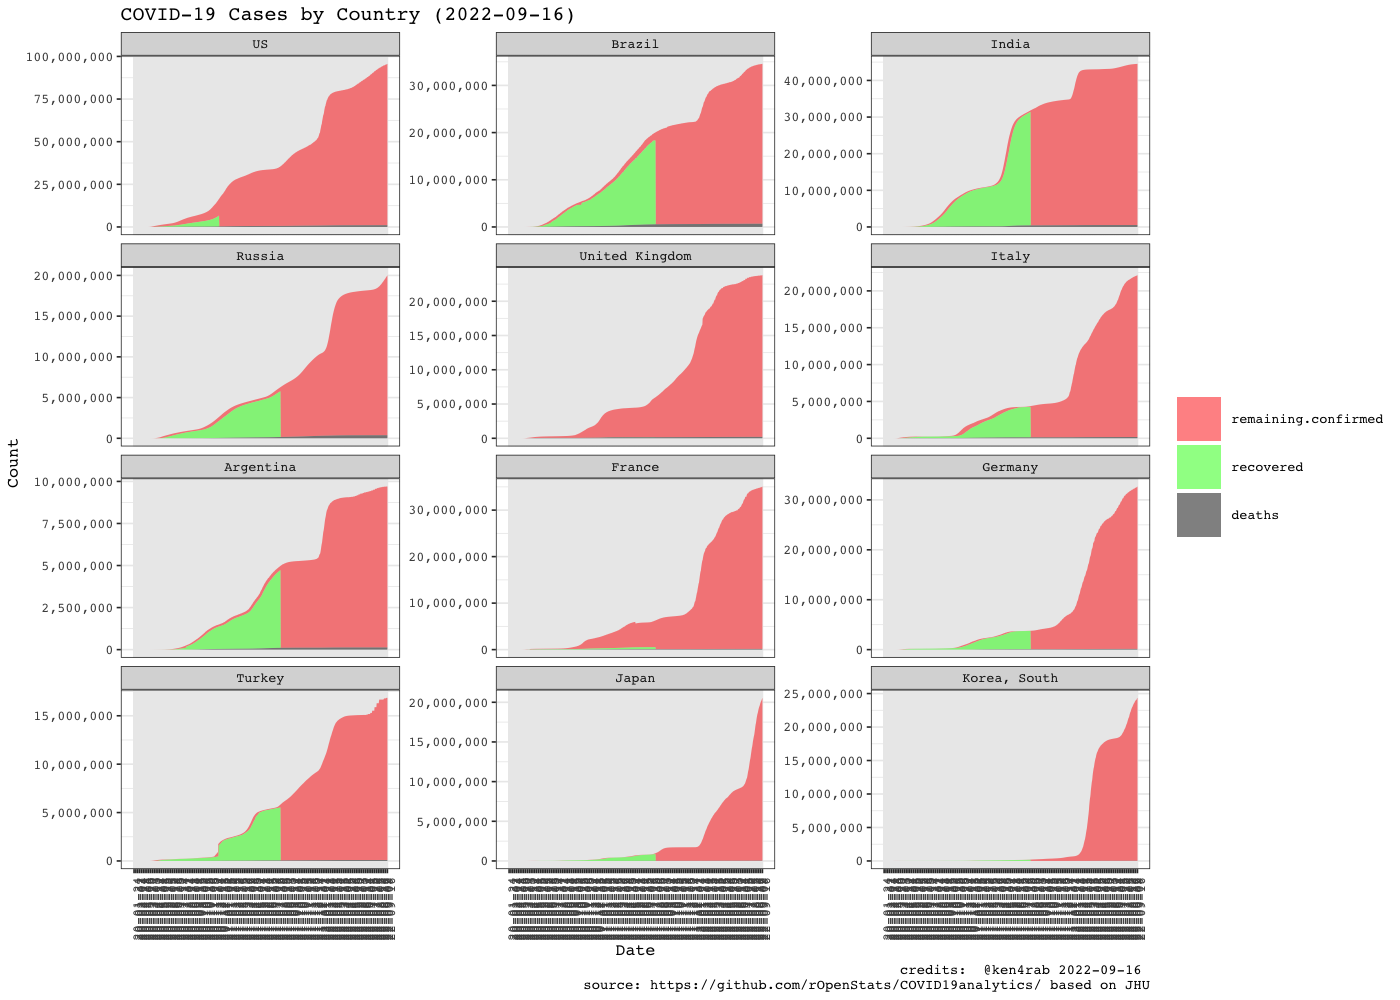
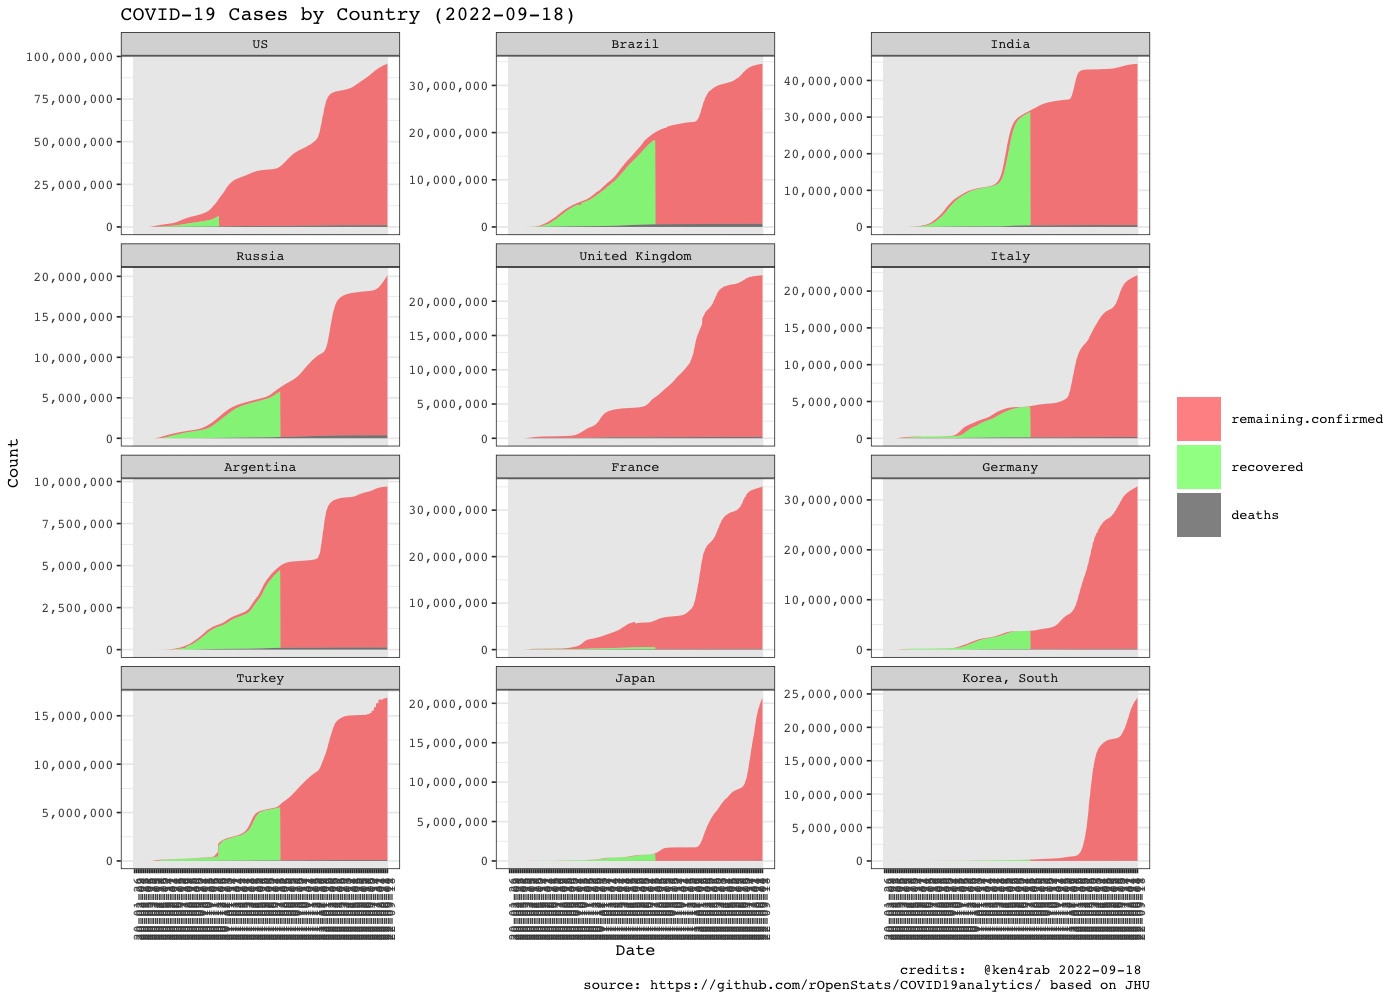
Updated up to 220918

diff --git a/README.md b/README.md
@@ -107,35 +107,35 @@ data.processor <- COVID19DataProcessor$new(provider = "JohnsHopkingsUniversity",
 
 #dummy <- data.processor$preprocess() is setupData + transform is the preprocess made by data provider
 dummy <- data.processor$setupData()
-#> INFO  [08:59:37.474]  {stage: `processor-setup`}
-#> INFO  [08:59:37.802] Checking required downloaded  {downloaded.max.date: `2022-09-15`, daily.update.time: `21:00:00`, current.datetime: `2022-09-17 08:59:37`, download.flag: `TRUE`}
-#> INFO  [08:59:39.082] Checking required downloaded  {downloaded.max.date: `2022-09-15`, daily.update.time: `21:00:00`, current.datetime: `2022-09-17 08:59:39`, download.flag: `TRUE`}
-#> INFO  [08:59:39.965] Checking required downloaded  {downloaded.max.date: `2022-09-15`, daily.update.time: `21:00:00`, current.datetime: `2022-09-17 08:59:39`, download.flag: `TRUE`}
-#> INFO  [08:59:41.277]  {stage: `data loaded`}
-#> INFO  [08:59:41.279]  {stage: `data-setup`}
+#> INFO  [08:06:46.564]  {stage: `processor-setup`}
+#> INFO  [08:06:46.774] Checking required downloaded  {downloaded.max.date: `2022-09-16`, daily.update.time: `21:00:00`, current.datetime: `2022-09-19 08:06:46`, download.flag: `TRUE`}
+#> INFO  [08:06:47.828] Checking required downloaded  {downloaded.max.date: `2022-09-16`, daily.update.time: `21:00:00`, current.datetime: `2022-09-19 08:06:47`, download.flag: `TRUE`}
+#> INFO  [08:06:48.983] Checking required downloaded  {downloaded.max.date: `2022-09-16`, daily.update.time: `21:00:00`, current.datetime: `2022-09-19 08:06:48`, download.flag: `TRUE`}
+#> INFO  [08:06:51.267]  {stage: `data loaded`}
+#> INFO  [08:06:51.270]  {stage: `data-setup`}
 dummy <- data.processor$transform()
-#> INFO  [08:59:41.283] Executing transform
-#> INFO  [08:59:41.285] Executing consolidate
-#> INFO  [09:00:17.760]  {stage: `consolidated`}
-#> INFO  [09:00:17.766] Executing standarize
-#> INFO  [09:00:22.953] gathering DataModel
-#> INFO  [09:00:22.956]  {stage: `datamodel-setup`}
+#> INFO  [08:06:51.274] Executing transform
+#> INFO  [08:06:51.276] Executing consolidate
+#> INFO  [08:07:36.480]  {stage: `consolidated`}
+#> INFO  [08:07:36.486] Executing standarize
+#> INFO  [08:07:45.238] gathering DataModel
+#> INFO  [08:07:45.242]  {stage: `datamodel-setup`}
 # Curate is the process made by missing values method
 dummy <- data.processor$curate()
-#> INFO  [09:00:22.970]  {stage: `loading-aggregated-data-model`}
+#> INFO  [08:07:45.270]  {stage: `loading-aggregated-data-model`}
 #> Warning in countrycode_convert(sourcevar = sourcevar, origin = origin, destination = dest, : Some values were not matched unambiguously: Antarctica
 #> Warning in countrycode_convert(sourcevar = sourcevar, origin = origin, destination = dest, : Some values were not matched unambiguously: Micronesia
 #> Warning in countrycode_convert(sourcevar = sourcevar, origin = origin, destination = dest, : Some values were not matched unambiguously: MS Zaandam
 #> Warning in countrycode_convert(sourcevar = sourcevar, origin = origin, destination = dest, : Some values were not matched unambiguously: Summer Olympics 2020
 #> Warning in countrycode_convert(sourcevar = sourcevar, origin = origin, destination = dest, : Some values were not matched unambiguously: Winter Olympics 2022
-#> INFO  [09:00:28.478]  {stage: `calculating-rates`}
-#> INFO  [09:00:28.840]  {stage: `making-data-comparison`}
-#> INFO  [09:00:46.566]  {stage: `applying-missing-values-method`}
-#> INFO  [09:00:46.569]  {stage: `Starting first imputation`}
-#> INFO  [09:00:46.602]  {stage: `calculating-rates`}
-#> INFO  [09:00:47.030]  {stage: `making-data-comparison-2`}
-#> INFO  [09:01:03.562]  {stage: `calculating-top-countries`}
-#> INFO  [09:01:03.601]  {stage: `curated`}
+#> INFO  [08:07:57.823]  {stage: `calculating-rates`}
+#> INFO  [08:07:58.834]  {stage: `making-data-comparison`}
+#> INFO  [08:08:22.970]  {stage: `applying-missing-values-method`}
+#> INFO  [08:08:22.974]  {stage: `Starting first imputation`}
+#> INFO  [08:08:23.011]  {stage: `calculating-rates`}
+#> INFO  [08:08:23.509]  {stage: `making-data-comparison-2`}
+#> INFO  [08:08:50.804]  {stage: `calculating-top-countries`}
+#> INFO  [08:08:50.875]  {stage: `curated`}
 
 current.date <- max(data.processor$getData()$date)
 
@@ -162,16 +162,16 @@ kable((data.processor$getData() %>%
 
 | country      | date       | rate.inc.daily | confirmed.inc | confirmed |  deaths | deaths.inc |
 |:-------------|:-----------|---------------:|--------------:|----------:|--------:|-----------:|
-| Japan        | 2022-09-16 |         0.0037 |         75905 |  20558655 |   43555 |        177 |
-| US           | 2022-09-16 |         0.0006 |         59315 |  95645794 | 1053389 |        450 |
-| Russia       | 2022-09-16 |         0.0029 |         58393 |  20029220 |  378029 |        108 |
-| Korea, South | 2022-09-16 |         0.0018 |         43400 |  24359702 |   27782 |         57 |
-| Taiwan\*     | 2022-09-16 |         0.0071 |         41607 |   5891355 |   10469 |         46 |
-| Germany      | 2022-09-16 |         0.0011 |         36613 |  32680355 |  148933 |         88 |
-| France       | 2022-09-16 |         0.0008 |         28686 |  35076991 |  155712 |         28 |
-| Italy        | 2022-09-16 |         0.0008 |         17362 |  22131785 |  176508 |         44 |
-| Spain        | 2022-09-16 |         0.0008 |         10760 |  13384876 |  113725 |        446 |
-| China        | 2022-09-16 |         0.0037 |          9941 |   2666537 |   15055 |         16 |
+| Japan        | 2022-09-18 |         0.0031 |         64009 |  20693615 |   43765 |         72 |
+| Russia       | 2022-09-18 |         0.0028 |         56148 |  20143127 |  378234 |        100 |
+| Taiwan\*     | 2022-09-18 |         0.0067 |         39511 |   5970438 |   10548 |         39 |
+| Korea, South | 2022-09-18 |         0.0008 |         19407 |  24413873 |   27867 |         39 |
+| Italy        | 2022-09-18 |         0.0005 |         12081 |  22161016 |  176578 |         32 |
+| Austria      | 2022-09-18 |         0.0020 |         10213 |   5024113 |   20677 |          7 |
+| China        | 2022-09-18 |         0.0032 |          8473 |   2683945 |   15094 |         23 |
+| Argentina    | 2022-09-18 |         0.0006 |          6175 |   9703938 |  129855 |         25 |
+| India        | 2022-09-18 |         0.0001 |          4858 |  44539046 |  528355 |         18 |
+| US           | 2022-09-18 |         0.0000 |          4710 |  95658236 | 1053419 |          7 |
 
 ``` r
 # Top 10 daily deaths increment
@@ -181,18 +181,18 @@ kable((data.processor$getData() %>%
   arrange(desc(deaths.inc)))[1:10,])
 ```
 
-| country      | date       | rate.inc.daily | confirmed.inc | confirmed |  deaths | deaths.inc |
-|:-------------|:-----------|---------------:|--------------:|----------:|--------:|-----------:|
-| US           | 2022-09-16 |         0.0006 |         59315 |  95645794 | 1053389 |        450 |
-| Spain        | 2022-09-16 |         0.0008 |         10760 |  13384876 |  113725 |        446 |
-| Japan        | 2022-09-16 |         0.0037 |         75905 |  20558655 |   43555 |        177 |
-| Australia    | 2022-09-16 |         0.0007 |          6680 |  10157316 |   14749 |        125 |
-| Russia       | 2022-09-16 |         0.0029 |         58393 |  20029220 |  378029 |        108 |
-| Germany      | 2022-09-16 |         0.0011 |         36613 |  32680355 |  148933 |         88 |
-| Korea, South | 2022-09-16 |         0.0018 |         43400 |  24359702 |   27782 |         57 |
-| Taiwan\*     | 2022-09-16 |         0.0071 |         41607 |   5891355 |   10469 |         46 |
-| Italy        | 2022-09-16 |         0.0008 |         17362 |  22131785 |  176508 |         44 |
-| Paraguay     | 2022-09-16 |         0.0003 |           203 |    716009 |   19564 |         34 |
+| country      | date       | rate.inc.daily | confirmed.inc | confirmed | deaths | deaths.inc |
+|:-------------|:-----------|---------------:|--------------:|----------:|-------:|-----------:|
+| Russia       | 2022-09-18 |         0.0028 |         56148 |  20143127 | 378234 |        100 |
+| Japan        | 2022-09-18 |         0.0031 |         64009 |  20693615 |  43765 |         72 |
+| Korea, South | 2022-09-18 |         0.0008 |         19407 |  24413873 |  27867 |         39 |
+| Taiwan\*     | 2022-09-18 |         0.0067 |         39511 |   5970438 |  10548 |         39 |
+| Philippines  | 2022-09-18 |         0.0006 |          2364 |   3920693 |  62549 |         35 |
+| Italy        | 2022-09-18 |         0.0005 |         12081 |  22161016 | 176578 |         32 |
+| Argentina    | 2022-09-18 |         0.0006 |          6175 |   9703938 | 129855 |         25 |
+| China        | 2022-09-18 |         0.0032 |          8473 |   2683945 |  15094 |         23 |
+| India        | 2022-09-18 |         0.0001 |          4858 |  44539046 | 528355 |         18 |
+| Iran         | 2022-09-18 |         0.0000 |           289 |   7542822 | 144301 |         14 |
 
 ``` r
 rg$ggplotTopCountriesStackedBarDailyInc(included.countries = latam.countries, countries.text = "Latam countries")
@@ -271,7 +271,7 @@ rg$ggplotCountriesLines(included.countries = latam.countries, countries.text = "
 #> Warning: Transformation introduced infinite values in continuous y-axis
 #> Warning in self$trans$transform(x): NaNs produced
 #> Warning: Transformation introduced infinite values in continuous y-axis
-#> Warning: Removed 156 row(s) containing missing values (geom_path).
+#> Warning: Removed 158 row(s) containing missing values (geom_path).
 #> Warning: Removed 1 rows containing missing values (geom_text_repel).
 #> Warning: ggrepel: 22 unlabeled data points (too many overlaps). Consider
 #> increasing max.overlaps
